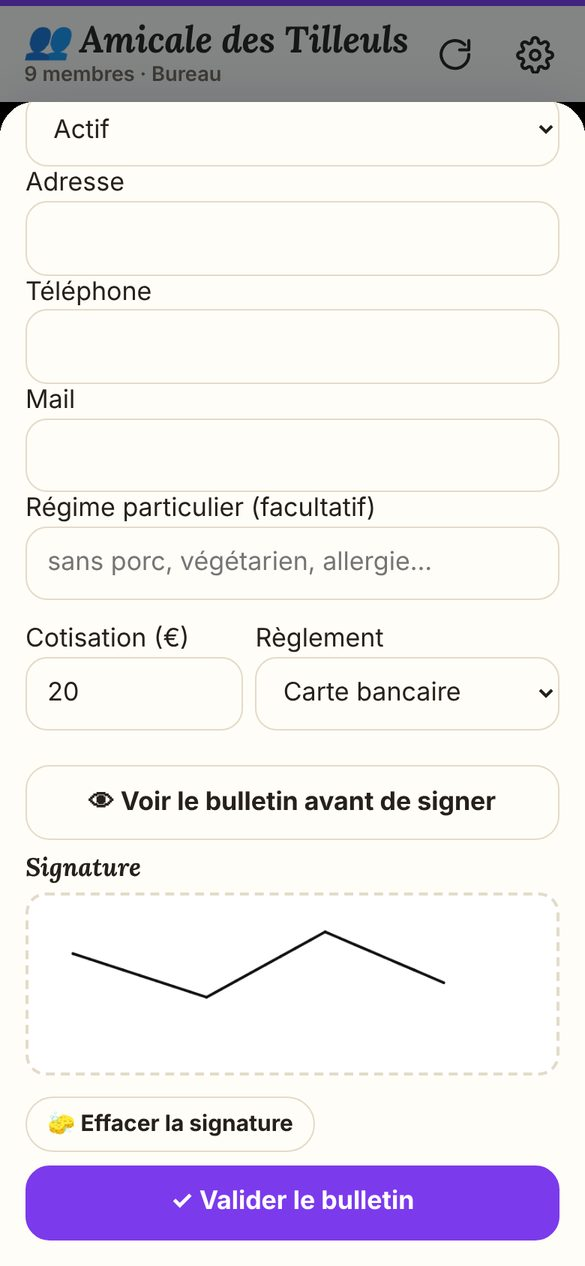
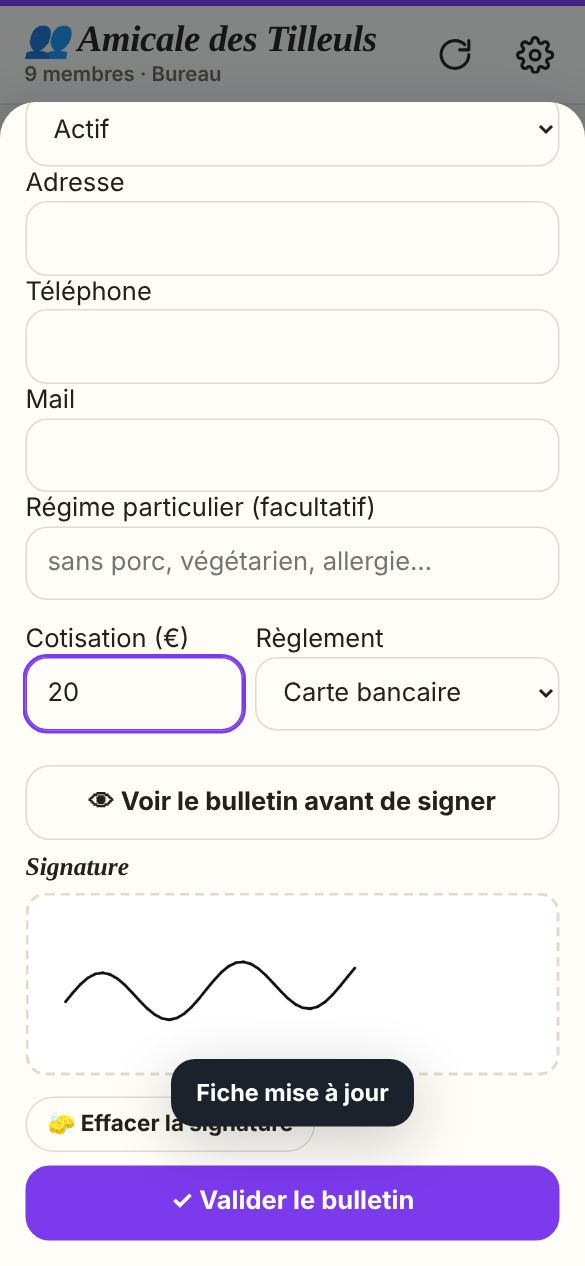
Visite guidée : images de la signature du bulletin mises à jour
Claude-Session: https://claude.ai/code/session_019mqjrjxHAMpMjD6Up7Rrk6

diff --git a/visite.html b/visite.html
@@ -100,8 +100,8 @@ body.land .card .lnk a{font-size:clamp(.95rem,2.3vh,1.5rem)}
 <div id="hint"><button class="ib" id="pv">‹ Retour</button><button class="ib nx" id="nx">Suivant ›</button></div>
 <div id="menu"><div class="box"><h3>Disposition</h3><div id="mm" style="display:flex;gap:.4rem"></div><h3 style="margin-top:.8rem">Aller à…</h3><div id="ml"></div><button id="mc" style="justify-content:center;background:#ede9fe">Fermer</button></div></div>
 <script>
-/* {"g01-inviter": {"bureau": [50.0, 55.1, 81.7, 6.0], "aide": [50.0, 62.1, 81.7, 6.0]}, "g02-code": {"code": [50.0, 34.8, 81.7, 8.2], "sms": [50.0, 56.6, 81.7, 6.0]}, "g03-accueil": {"join": [50.0, 62.8, 93.0, 6.0], "card": [50.0, 31.1, 93.0, 40.4]}, "g04-saisie-code": {"code": [50.0, 52.4, 81.7, 6.9], "ok": [50.0, 59.9, 81.7, 6.0]}, "g05-fiche": {"nom": [50.0, 41.3, 81.7, 5.8], "tel": [50.0, 50.6, 81.7, 5.8], "ok": [50.0, 76.2, 81.7, 6.0]}, "g06-membres": {"inv": [44.8, 36.3, 83.5, 4.0]}, "g07-ajout-amicaliste": {"nom": [50.0, 16.0, 81.7, 5.8], "grade": [50.0, 25.3, 81.7, 5.8], "regime": [50.0, 90.7, 81.7, 5.8]}, "g08-signature": {"prix": [22.9, 52.1, 37.1, 5.8], "pm": [69.7, 52.1, 52.0, 5.8], "sig": [50.0, 68.1, 91.3, 14.4], "ok": [50.0, 94.9, 91.3, 6.0]}, "g09-amicaliste-signe": {"fiche": [44.8, 72.1, 83.5, 10.3], "stats": [44.8, 24.9, 77.4, 23.1]}, "g10-archiver-bouton": {}, "g11-archiver": {"zip": [50.0, 57.4, 81.7, 6.0]}, "g12-liberer": {"lib": [50.0, 57.5, 81.7, 6.0]}, "g13-archive": {"fiche": [44.8, 72.1, 83.5, 10.3]}, "g14-taches": {"add": [44.8, 22.3, 83.5, 4.2], "t1": [44.8, 30.0, 83.5, 10.3], "done": [44.8, 88.1, 83.5, 12.8]}, "g15-courses": {"done": [44.8, 71.1, 83.5, 7.5], "plus": [80.5, 37.2, 7.4, 3.4]}, "g16-evenements": {"noel": [44.8, 30.2, 83.5, 7.5], "add": [44.8, 15.8, 83.5, 4.2]}, "g17-noel-preparation": {"infos": [44.8, 40.5, 77.4, 42.9], "fait": [44.8, 72.4, 83.5, 12.8]}, "g18-import-liste": {"coller": [50.0, 55.2, 81.7, 6.0], "fichier": [50.0, 62.2, 81.7, 6.0]}, "g19-noel-inscrits": {"stats": [44.8, 72.2, 83.5, 12.2], "regimes": [20.1, 80.5, 34.1, 1.9], "p1": [49.9, 94.6, 68.5, 8.8]}, "g20-noel-distribution": {"jj": [23.6, 39.6, 41.0, 10.3], "ty": [66.1, 39.6, 41.0, 10.3], "cadeau": [76.1, 50.6, 20.9, 10.3], "exp": [66.1, 59.4, 41.0, 6.1]}, "g21-ce-qu-on-distribue": {"repas": [50.0, 25.2, 81.7, 5.8], "autres": [50.0, 81.1, 81.7, 5.8]}, "g22-import-inscrits": {"noms": [50.0, 53.4, 81.7, 16.9]}, "g23-noel-programme": {"pg": [44.8, 68.6, 83.5, 4.8], "add": [44.8, 97.8, 83.5, 4.2]}, "g24-jour-j": {"stats": [33.7, 14.0, 10.3, 1.7], "p1": [22.8, 50.1, 32.9, 4.2], "onglets": [59.1, 25.1, 41.6, 3.8]}, "g25-affiche": {"aff": [50.0, 54.0, 98.0, 92.0], "style": [50.0, 55.4, 89.3, 2.7]}, "g26-agenda-noel": {"j19": [67.3, 58.4, 11.2, 9.3], "ev": [52.7, 88.9, 62.8, 2.6]}, "g27-note-bilan": {"titre": [44.8, 30.7, 72.6, 7.2], "dec": [44.8, 61.4, 72.6, 3.4]}, "g28-impression": {"af": [50.0, 42.8, 81.7, 6.0], "all": [50.0, 49.8, 81.7, 6.0], "pg": [50.0, 56.8, 81.7, 6.0], "ck": [50.0, 63.8, 81.7, 6.0]}, "a2-ajout": {"nom": [50.0, 39.0, 81.7, 5.8], "dossier": [50.0, 48.3, 81.7, 5.8], "ev": [50.0, 57.6, 81.7, 5.8]}, "a3-apercu": {"pv": [50.0, 42.7, 81.7, 53.2], "send": [50.0, 81.2, 81.7, 6.0]}, "a1-liste": {"add": [44.8, 44.2, 68.2, 4.0], "chips": [44.8, 60.7, 83.5, 22.0], "send": [76.5, 82.2, 11.8, 5.4]}, "a4-dossiers": {"perso": [21.9, 69.8, 37.6, 3.8]}, "a5-evenement-docs": {"docs": [44.8, 12.8, 83.5, 2.0], "join": [44.8, 59.5, 83.5, 4.0]}, "a6-reglage": {"reg": [44.8, 43.7, 68.2, 13.0], "new": [44.8, 57.8, 68.2, 15.3]}, "a7-reglement": {"ti": [50.0, 42.4, 91.3, 10.1], "tx": [50.0, 66.9, 91.3, 31.7]}, "a8-bureau": {"bu": [50.0, 16.9, 91.3, 36.1], "sig": [50.0, 26.4, 86.4, 14.9]}, "a9-bulletin": {"pn": [50.0, 37.6, 91.3, 5.8], "sv": [50.0, 63.3, 91.3, 5.8]}, "a9b-bulletin-signe": {"pv": [50.0, 63.4, 91.3, 6.0], "sig": [50.0, 77.7, 91.3, 14.4], "ok": [50.0, 95.0, 91.3, 6.0]}, "a10-menu": {"send": [50.0, 77.0, 81.7, 6.0], "print": [50.0, 84.0, 81.7, 6.0], "fin": [50.0, 98.0, 81.7, 6.0]}, "a11-papier": {"bp": [50.0, 50.0, 81.7, 5.8]}, "a12-saison": {"ok": [50.0, 67.5, 81.7, 6.0]}, "a13-ag": {"new": [44.8, 86.6, 68.2, 6.1], "item": [44.8, 77.5, 68.2, 10.3]}, "a14-ag-edit": {"fill": [50.0, 26.7, 91.3, 6.0], "ps": [50.0, 44.1, 91.3, 5.8]}, "a15-ag-parties": {"x": [50.0, 37.4, 86.4, 19.4], "up": [73.8, 54.0, 11.8, 5.4]}, "a16-ag-signer": {"sig": [27.5, 47.4, 41.4, 4.4], "add": [50.0, 76.0, 91.3, 6.0]}, "g29-repas": {"nb": [36.1, 21.9, 66.1, 7.5], "plat": [44.8, 47.0, 83.5, 14.6], "add": [23.6, 94.1, 41.0, 6.1]}, "g30-repas-envoi": {"ok": [50.0, 66.1, 81.7, 6.0], "liste": [50.0, 45.4, 81.7, 22.0]}, "g31-courses-noel": {"art": [44.8, 3.1, 83.5, 7.5]}, "g32-lier": {"lier": [44.8, 35.5, 68.2, 10.4]}, "g33-lier-code": {"dlg": [50.0, 50.0, 91.3, 46.2]}, "g35-choix": {"tot": [50.0, 21.1, 91.3, 8.1], "pp": [50.0, 33.6, 91.3, 14.6]}, "g34-compose": {"plat": [44.8, 57.8, 83.5, 20.2], "ch": [25.5, 64.1, 38.1, 6.1], "pr": [65.1, 64.1, 38.1, 6.1]}, "g36-regimes": {"rg": [44.8, 21.8, 83.5, 12.6], "fo": [38.1, 34.1, 63.2, 1.8], "send": [44.8, 96.1, 83.5, 4.0]}, "a17-am-outils": {"bg": [23.6, 59.3, 41.0, 6.1], "fill": [44.8, 66.2, 83.5, 6.1], "dbl": [66.1, 59.3, 41.0, 6.1], "imp": [23.6, 52.4, 41.0, 6.1]}, "a18-badges": {"tab": [50.0, 38.0, 81.7, 42.0], "copy": [50.0, 80.1, 81.7, 6.0], "xl": [50.0, 88.4, 81.7, 8.7]}, "a19-coffret": {"chip": [109.7, 52.0, 35.1, 3.8], "exp": [23.6, 57.8, 41.0, 6.1], "bg": [66.1, 57.8, 41.0, 6.1]}, "a22-fiche-badge": {"bg": [50.0, 50.0, 81.7, 5.8], "pd": [50.0, 12.6, 81.7, 6.0]}, "a20-ev-badges": {"bg": [23.6, 57.7, 41.0, 6.1], "fill": [66.1, 57.7, 41.0, 6.1]}, "a21-ev-liste": {"tab": [50.0, 38.0, 81.7, 42.0], "miss": [50.0, 73.8, 81.7, 4.6]}, "a23-cd-fiche": {"act": [50.0, 76.8, 81.7, 5.8]}, "a26-cd-membre": {"dlg": [50.0, 50.0, 91.3, 45.9]}, "a24-cd-new": {"tp": [50.0, 33.8, 81.7, 5.8], "x": [50.0, 71.3, 81.7, 5.8], "bd": [50.0, 62.0, 81.7, 5.8]}, "a25-cd-liste": {"card": [44.8, 61.9, 77.4, 97.1], "tog": [17.7, 50.9, 7.0, 3.2], "done": [44.8, 80.3, 68.2, 15.6]}, "a27-safe": {"card": [44.8, 42.2, 77.4, 67.9], "tr": [44.8, 34.4, 68.2, 10.3], "sn": [44.8, 44.7, 68.2, 10.4], "bk": [44.8, 55.4, 68.2, 10.9], "bkr": [44.8, 67.4, 68.2, 13.1]}, "a28-corbeille": {"row": [50.0, 30.8, 91.3, 13.9], "res": [77.2, 30.8, 31.1, 4.4]}, "a29-copies": {"row": [25.7, 30.5, 42.7, 8.5]}, "a30-copie-choix": {"b": [50.0, 50.2, 81.7, 8.7], "f": [50.0, 59.9, 81.7, 8.7]}, "a31-restaurer": {"c": [50.0, 59.4, 81.7, 5.8]}, "a32-fichier": {"p": [50.0, 53.2, 81.7, 5.8]}, "g37-paiement": {"bar": [44.8, 27.2, 83.5, 23.3], "no": [30.1, 20.7, 11.8, 2.4], "pay": [72.0, 60.8, 11.8, 5.4], "f": [22.6, 24.5, 33.3, 3.8]}, "g38-encaisser": {"m": [50.0, 39.3, 81.7, 5.8], "du": [50.0, 60.0, 81.7, 5.8]}, "g39-pas-paye": {"tab": [50.0, 39.9, 81.7, 20.9]}, "a34-fill-intro": {"dlg": [50.0, 50.0, 91.3, 53.9]}, "a33-fill-ok": {"dlg": [50.0, 50.0, 91.3, 30.8]}, "r1-croque": {"nb": [36.1, 21.9, 66.1, 7.5], "rg": [44.8, 32.5, 83.5, 12.6], "plat": [44.8, 47.0, 83.5, 14.6], "var": [44.8, 61.1, 83.5, 12.6], "send": [44.8, 87.5, 83.5, 4.0]}, "r2-croque-plat": {"ing": [50.0, 59.6, 81.7, 16.9], "pp": [50.0, 35.5, 81.7, 5.8], "fo": [50.0, 44.8, 81.7, 5.8]}, "r3-croque-envoi": {"liste": [50.0, 46.8, 81.7, 9.8], "ok": [50.0, 61.3, 81.7, 6.0]}, "r4-croque-courses": {"art": [44.8, 49.7, 83.5, 7.5]}, "l1-pour-les-nuls": {"tab": [94.9, 76.7, 10.2, 10.0], "intro": [44.8, 31.1, 77.4, 27.5]}, "l2-fiche-ag": {"fiche": [44.8, 52.5, 77.4, 7.0], "src": [52.5, 96.0, 70.0, 3.0]}, "l3-script": {"btn": [44.8, 81.3, 68.2, 6.1], "txt": [44.8, 81.3, 68.2, 6.1]}, "n1-deux-listes": {"chips": [44.8, 88.4, 83.5, 4.1]}, "n2-non-amicalistes": {"liste": [44.8, 61.6, 83.5, 4.1], "add": [44.8, 18.7, 83.5, 6.1], "sel": [70.0, 77.5, 33.0, 4.8]}, "n3-outils": {"saison": [23.6, 74.1, 41.0, 8.2], "annonce": [66.1, 74.1, 41.0, 8.2], "prix": [44.8, 82.1, 83.5, 6.1], "exp": [67.9, 52.4, 37.4, 6.1], "imp": [25.4, 52.4, 44.6, 6.1]}, "e3-jourj-encaisser": {"euro": [43.2, 67.5, 19.7, 4.2], "cpt": [74.0, 18.8, 36.0, 3.2]}, "e0-bouton-jourj": {"jj": [23.6, 57.8, 41.0, 10.3]}, "e2-selection": {"bar": [44.8, 34.5, 80.0, 6.5], "pres": [27.4, 45.1, 33.3, 6.0], "pay": [62.3, 45.1, 33.3, 6.0], "inv": [27.4, 52.0, 33.3, 6.0], "exp": [62.3, 52.0, 33.3, 6.0], "del": [44.8, 57.7, 68.0, 4.2], "tabs": [55.0, 65.2, 85.0, 4.8]}, "e6-taches-selection": {"bar": [44.8, 19.5, 80.0, 6.0], "don": [27.4, 30.0, 33.0, 6.2], "rap": [62.3, 30.0, 33.0, 6.2], "del": [44.8, 35.7, 68.0, 4.2]}, "e4-fiche-contact": {"tel": [50.0, 57.9, 81.7, 18.8]}, "e5-journal": {"clr": [44.8, 57.8, 68.2, 6.1]}} est remplacé par les positions mesurées lors des captures */
-const MK={"g01-inviter": {"bureau": [50.0, 55.1, 81.7, 6.0], "aide": [50.0, 62.1, 81.7, 6.0]}, "g02-code": {"code": [50.0, 34.8, 81.7, 8.2], "sms": [50.0, 56.6, 81.7, 6.0]}, "g03-accueil": {"join": [50.0, 62.8, 93.0, 6.0], "card": [50.0, 31.1, 93.0, 40.4]}, "g04-saisie-code": {"code": [50.0, 52.4, 81.7, 6.9], "ok": [50.0, 59.9, 81.7, 6.0]}, "g05-fiche": {"nom": [50.0, 41.3, 81.7, 5.8], "tel": [50.0, 50.6, 81.7, 5.8], "ok": [50.0, 76.2, 81.7, 6.0]}, "g06-membres": {"inv": [44.8, 36.3, 83.5, 4.0]}, "g07-ajout-amicaliste": {"nom": [50.0, 16.0, 81.7, 5.8], "grade": [50.0, 25.3, 81.7, 5.8], "regime": [50.0, 90.7, 81.7, 5.8]}, "g08-signature": {"prix": [22.9, 52.1, 37.1, 5.8], "pm": [69.7, 52.1, 52.0, 5.8], "sig": [50.0, 68.1, 91.3, 14.4], "ok": [50.0, 94.9, 91.3, 6.0]}, "g09-amicaliste-signe": {"fiche": [44.8, 72.1, 83.5, 10.3], "stats": [44.8, 24.9, 77.4, 23.1]}, "g10-archiver-bouton": {}, "g11-archiver": {"zip": [50.0, 57.4, 81.7, 6.0]}, "g12-liberer": {"lib": [50.0, 57.5, 81.7, 6.0]}, "g13-archive": {"fiche": [44.8, 72.1, 83.5, 10.3]}, "g14-taches": {"add": [44.8, 22.3, 83.5, 4.2], "t1": [44.8, 30.0, 83.5, 10.3], "done": [44.8, 88.1, 83.5, 12.8]}, "g15-courses": {"done": [44.8, 71.1, 83.5, 7.5], "plus": [80.5, 37.2, 7.4, 3.4]}, "g16-evenements": {"noel": [44.8, 30.2, 83.5, 7.5], "add": [44.8, 15.8, 83.5, 4.2]}, "g17-noel-preparation": {"infos": [44.8, 40.5, 77.4, 42.9], "fait": [44.8, 72.4, 83.5, 12.8]}, "g18-import-liste": {"coller": [50.0, 55.2, 81.7, 6.0], "fichier": [50.0, 62.2, 81.7, 6.0]}, "g19-noel-inscrits": {"stats": [44.8, 72.2, 83.5, 12.2], "regimes": [20.1, 80.5, 34.1, 1.9], "p1": [49.9, 94.6, 68.5, 8.8]}, "g20-noel-distribution": {"jj": [23.6, 39.6, 41.0, 10.3], "ty": [66.1, 39.6, 41.0, 10.3], "cadeau": [76.1, 50.6, 20.9, 10.3], "exp": [66.1, 59.4, 41.0, 6.1]}, "g21-ce-qu-on-distribue": {"repas": [50.0, 25.2, 81.7, 5.8], "autres": [50.0, 81.1, 81.7, 5.8]}, "g22-import-inscrits": {"noms": [50.0, 53.4, 81.7, 16.9]}, "g23-noel-programme": {"pg": [44.8, 68.6, 83.5, 4.8], "add": [44.8, 97.8, 83.5, 4.2]}, "g24-jour-j": {"stats": [33.7, 14.0, 10.3, 1.7], "p1": [22.8, 50.1, 32.9, 4.2], "onglets": [59.1, 25.1, 41.6, 3.8]}, "g25-affiche": {"aff": [50.0, 54.0, 98.0, 92.0], "style": [50.0, 55.4, 89.3, 2.7]}, "g26-agenda-noel": {"j19": [67.3, 58.4, 11.2, 9.3], "ev": [52.7, 88.9, 62.8, 2.6]}, "g27-note-bilan": {"titre": [44.8, 30.7, 72.6, 7.2], "dec": [44.8, 61.4, 72.6, 3.4]}, "g28-impression": {"af": [50.0, 42.8, 81.7, 6.0], "all": [50.0, 49.8, 81.7, 6.0], "pg": [50.0, 56.8, 81.7, 6.0], "ck": [50.0, 63.8, 81.7, 6.0]}, "a2-ajout": {"nom": [50.0, 39.0, 81.7, 5.8], "dossier": [50.0, 48.3, 81.7, 5.8], "ev": [50.0, 57.6, 81.7, 5.8]}, "a3-apercu": {"pv": [50.0, 42.7, 81.7, 53.2], "send": [50.0, 81.2, 81.7, 6.0]}, "a1-liste": {"add": [44.8, 44.2, 68.2, 4.0], "chips": [44.8, 60.7, 83.5, 22.0], "send": [76.5, 82.2, 11.8, 5.4]}, "a4-dossiers": {"perso": [21.9, 69.8, 37.6, 3.8]}, "a5-evenement-docs": {"docs": [44.8, 12.8, 83.5, 2.0], "join": [44.8, 59.5, 83.5, 4.0]}, "a6-reglage": {"reg": [44.8, 43.7, 68.2, 13.0], "new": [44.8, 57.8, 68.2, 15.3]}, "a7-reglement": {"ti": [50.0, 42.4, 91.3, 10.1], "tx": [50.0, 66.9, 91.3, 31.7]}, "a8-bureau": {"bu": [50.0, 16.9, 91.3, 36.1], "sig": [50.0, 26.4, 86.4, 14.9]}, "a9-bulletin": {"pn": [50.0, 37.6, 91.3, 5.8], "sv": [50.0, 63.3, 91.3, 5.8]}, "a9b-bulletin-signe": {"pv": [50.0, 63.4, 91.3, 6.0], "sig": [50.0, 77.7, 91.3, 14.4], "ok": [50.0, 95.0, 91.3, 6.0]}, "a10-menu": {"send": [50.0, 77.0, 81.7, 6.0], "print": [50.0, 84.0, 81.7, 6.0], "fin": [50.0, 98.0, 81.7, 6.0]}, "a11-papier": {"bp": [50.0, 50.0, 81.7, 5.8]}, "a12-saison": {"ok": [50.0, 67.5, 81.7, 6.0]}, "a13-ag": {"new": [44.8, 86.6, 68.2, 6.1], "item": [44.8, 77.5, 68.2, 10.3]}, "a14-ag-edit": {"fill": [50.0, 26.7, 91.3, 6.0], "ps": [50.0, 44.1, 91.3, 5.8]}, "a15-ag-parties": {"x": [50.0, 37.4, 86.4, 19.4], "up": [73.8, 54.0, 11.8, 5.4]}, "a16-ag-signer": {"sig": [27.5, 47.4, 41.4, 4.4], "add": [50.0, 76.0, 91.3, 6.0]}, "g29-repas": {"nb": [36.1, 21.9, 66.1, 7.5], "plat": [44.8, 47.0, 83.5, 14.6], "add": [23.6, 94.1, 41.0, 6.1]}, "g30-repas-envoi": {"ok": [50.0, 66.1, 81.7, 6.0], "liste": [50.0, 45.4, 81.7, 22.0]}, "g31-courses-noel": {"art": [44.8, 3.1, 83.5, 7.5]}, "g32-lier": {"lier": [44.8, 35.5, 68.2, 10.4]}, "g33-lier-code": {"dlg": [50.0, 50.0, 91.3, 46.2]}, "g35-choix": {"tot": [50.0, 21.1, 91.3, 8.1], "pp": [50.0, 33.6, 91.3, 14.6]}, "g34-compose": {"plat": [44.8, 57.8, 83.5, 20.2], "ch": [25.5, 64.1, 38.1, 6.1], "pr": [65.1, 64.1, 38.1, 6.1]}, "g36-regimes": {"rg": [44.8, 21.8, 83.5, 12.6], "fo": [38.1, 34.1, 63.2, 1.8], "send": [44.8, 96.1, 83.5, 4.0]}, "a17-am-outils": {"bg": [23.6, 59.3, 41.0, 6.1], "fill": [44.8, 66.2, 83.5, 6.1], "dbl": [66.1, 59.3, 41.0, 6.1], "imp": [23.6, 52.4, 41.0, 6.1]}, "a18-badges": {"tab": [50.0, 38.0, 81.7, 42.0], "copy": [50.0, 80.1, 81.7, 6.0], "xl": [50.0, 88.4, 81.7, 8.7]}, "a19-coffret": {"chip": [109.7, 52.0, 35.1, 3.8], "exp": [23.6, 57.8, 41.0, 6.1], "bg": [66.1, 57.8, 41.0, 6.1]}, "a22-fiche-badge": {"bg": [50.0, 50.0, 81.7, 5.8], "pd": [50.0, 12.6, 81.7, 6.0]}, "a20-ev-badges": {"bg": [23.6, 57.7, 41.0, 6.1], "fill": [66.1, 57.7, 41.0, 6.1]}, "a21-ev-liste": {"tab": [50.0, 38.0, 81.7, 42.0], "miss": [50.0, 73.8, 81.7, 4.6]}, "a23-cd-fiche": {"act": [50.0, 76.8, 81.7, 5.8]}, "a26-cd-membre": {"dlg": [50.0, 50.0, 91.3, 45.9]}, "a24-cd-new": {"tp": [50.0, 33.8, 81.7, 5.8], "x": [50.0, 71.3, 81.7, 5.8], "bd": [50.0, 62.0, 81.7, 5.8]}, "a25-cd-liste": {"card": [44.8, 61.9, 77.4, 97.1], "tog": [17.7, 50.9, 7.0, 3.2], "done": [44.8, 80.3, 68.2, 15.6]}, "a27-safe": {"card": [44.8, 42.2, 77.4, 67.9], "tr": [44.8, 34.4, 68.2, 10.3], "sn": [44.8, 44.7, 68.2, 10.4], "bk": [44.8, 55.4, 68.2, 10.9], "bkr": [44.8, 67.4, 68.2, 13.1]}, "a28-corbeille": {"row": [50.0, 30.8, 91.3, 13.9], "res": [77.2, 30.8, 31.1, 4.4]}, "a29-copies": {"row": [25.7, 30.5, 42.7, 8.5]}, "a30-copie-choix": {"b": [50.0, 50.2, 81.7, 8.7], "f": [50.0, 59.9, 81.7, 8.7]}, "a31-restaurer": {"c": [50.0, 59.4, 81.7, 5.8]}, "a32-fichier": {"p": [50.0, 53.2, 81.7, 5.8]}, "g37-paiement": {"bar": [44.8, 27.2, 83.5, 23.3], "no": [30.1, 20.7, 11.8, 2.4], "pay": [72.0, 60.8, 11.8, 5.4], "f": [22.6, 24.5, 33.3, 3.8]}, "g38-encaisser": {"m": [50.0, 39.3, 81.7, 5.8], "du": [50.0, 60.0, 81.7, 5.8]}, "g39-pas-paye": {"tab": [50.0, 39.9, 81.7, 20.9]}, "a34-fill-intro": {"dlg": [50.0, 50.0, 91.3, 53.9]}, "a33-fill-ok": {"dlg": [50.0, 50.0, 91.3, 30.8]}, "r1-croque": {"nb": [36.1, 21.9, 66.1, 7.5], "rg": [44.8, 32.5, 83.5, 12.6], "plat": [44.8, 47.0, 83.5, 14.6], "var": [44.8, 61.1, 83.5, 12.6], "send": [44.8, 87.5, 83.5, 4.0]}, "r2-croque-plat": {"ing": [50.0, 59.6, 81.7, 16.9], "pp": [50.0, 35.5, 81.7, 5.8], "fo": [50.0, 44.8, 81.7, 5.8]}, "r3-croque-envoi": {"liste": [50.0, 46.8, 81.7, 9.8], "ok": [50.0, 61.3, 81.7, 6.0]}, "r4-croque-courses": {"art": [44.8, 49.7, 83.5, 7.5]}, "l1-pour-les-nuls": {"tab": [94.9, 76.7, 10.2, 10.0], "intro": [44.8, 31.1, 77.4, 27.5]}, "l2-fiche-ag": {"fiche": [44.8, 52.5, 77.4, 7.0], "src": [52.5, 96.0, 70.0, 3.0]}, "l3-script": {"btn": [44.8, 81.3, 68.2, 6.1], "txt": [44.8, 81.3, 68.2, 6.1]}, "n1-deux-listes": {"chips": [44.8, 88.4, 83.5, 4.1]}, "n2-non-amicalistes": {"liste": [44.8, 61.6, 83.5, 4.1], "add": [44.8, 18.7, 83.5, 6.1], "sel": [70.0, 77.5, 33.0, 4.8]}, "n3-outils": {"saison": [23.6, 74.1, 41.0, 8.2], "annonce": [66.1, 74.1, 41.0, 8.2], "prix": [44.8, 82.1, 83.5, 6.1], "exp": [67.9, 52.4, 37.4, 6.1], "imp": [25.4, 52.4, 44.6, 6.1]}, "e3-jourj-encaisser": {"euro": [43.2, 67.5, 19.7, 4.2], "cpt": [74.0, 18.8, 36.0, 3.2]}, "e0-bouton-jourj": {"jj": [23.6, 57.8, 41.0, 10.3]}, "e2-selection": {"bar": [44.8, 34.5, 80.0, 6.5], "pres": [27.4, 45.1, 33.3, 6.0], "pay": [62.3, 45.1, 33.3, 6.0], "inv": [27.4, 52.0, 33.3, 6.0], "exp": [62.3, 52.0, 33.3, 6.0], "del": [44.8, 57.7, 68.0, 4.2], "tabs": [55.0, 65.2, 85.0, 4.8]}, "e6-taches-selection": {"bar": [44.8, 19.5, 80.0, 6.0], "don": [27.4, 30.0, 33.0, 6.2], "rap": [62.3, 30.0, 33.0, 6.2], "del": [44.8, 35.7, 68.0, 4.2]}, "e4-fiche-contact": {"tel": [50.0, 57.9, 81.7, 18.8]}, "e5-journal": {"clr": [44.8, 57.8, 68.2, 6.1]}};
+/* {"g01-inviter": {"bureau": [50.0, 55.1, 81.7, 6.0], "aide": [50.0, 62.1, 81.7, 6.0]}, "g02-code": {"code": [50.0, 34.8, 81.7, 8.2], "sms": [50.0, 56.6, 81.7, 6.0]}, "g03-accueil": {"join": [50.0, 62.8, 93.0, 6.0], "card": [50.0, 31.1, 93.0, 40.4]}, "g04-saisie-code": {"code": [50.0, 52.4, 81.7, 6.9], "ok": [50.0, 59.9, 81.7, 6.0]}, "g05-fiche": {"nom": [50.0, 41.3, 81.7, 5.8], "tel": [50.0, 50.6, 81.7, 5.8], "ok": [50.0, 76.2, 81.7, 6.0]}, "g06-membres": {"inv": [44.8, 36.3, 83.5, 4.0]}, "g07-ajout-amicaliste": {"nom": [50.0, 16.0, 81.7, 5.8], "grade": [50.0, 25.3, 81.7, 5.8], "regime": [50.0, 90.7, 81.7, 5.8]}, "g08-signature": {"prix": [23.1, 54.7, 37.6, 6.0], "pm": [69.6, 54.7, 51.0, 6.0], "sig": [50.0, 78.0, 91.3, 14.4], "ok": [50.0, 94.8, 91.3, 6.0]}, "g09-amicaliste-signe": {"fiche": [44.8, 72.1, 83.5, 10.3], "stats": [44.8, 24.9, 77.4, 23.1]}, "g10-archiver-bouton": {}, "g11-archiver": {"zip": [50.0, 57.4, 81.7, 6.0]}, "g12-liberer": {"lib": [50.0, 57.5, 81.7, 6.0]}, "g13-archive": {"fiche": [44.8, 72.1, 83.5, 10.3]}, "g14-taches": {"add": [44.8, 22.3, 83.5, 4.2], "t1": [44.8, 30.0, 83.5, 10.3], "done": [44.8, 88.1, 83.5, 12.8]}, "g15-courses": {"done": [44.8, 71.1, 83.5, 7.5], "plus": [80.5, 37.2, 7.4, 3.4]}, "g16-evenements": {"noel": [44.8, 30.2, 83.5, 7.5], "add": [44.8, 15.8, 83.5, 4.2]}, "g17-noel-preparation": {"infos": [44.8, 40.5, 77.4, 42.9], "fait": [44.8, 72.4, 83.5, 12.8]}, "g18-import-liste": {"coller": [50.0, 55.2, 81.7, 6.0], "fichier": [50.0, 62.2, 81.7, 6.0]}, "g19-noel-inscrits": {"stats": [44.8, 72.2, 83.5, 12.2], "regimes": [20.1, 80.5, 34.1, 1.9], "p1": [49.9, 94.6, 68.5, 8.8]}, "g20-noel-distribution": {"jj": [23.6, 39.6, 41.0, 10.3], "ty": [66.1, 39.6, 41.0, 10.3], "cadeau": [76.1, 50.6, 20.9, 10.3], "exp": [66.1, 59.4, 41.0, 6.1]}, "g21-ce-qu-on-distribue": {"repas": [50.0, 25.2, 81.7, 5.8], "autres": [50.0, 81.1, 81.7, 5.8]}, "g22-import-inscrits": {"noms": [50.0, 53.4, 81.7, 16.9]}, "g23-noel-programme": {"pg": [44.8, 68.6, 83.5, 4.8], "add": [44.8, 97.8, 83.5, 4.2]}, "g24-jour-j": {"stats": [33.7, 14.0, 10.3, 1.7], "p1": [22.8, 50.1, 32.9, 4.2], "onglets": [59.1, 25.1, 41.6, 3.8]}, "g25-affiche": {"aff": [50.0, 54.0, 98.0, 92.0], "style": [50.0, 55.4, 89.3, 2.7]}, "g26-agenda-noel": {"j19": [67.3, 58.4, 11.2, 9.3], "ev": [52.7, 88.9, 62.8, 2.6]}, "g27-note-bilan": {"titre": [44.8, 30.7, 72.6, 7.2], "dec": [44.8, 61.4, 72.6, 3.4]}, "g28-impression": {"af": [50.0, 42.8, 81.7, 6.0], "all": [50.0, 49.8, 81.7, 6.0], "pg": [50.0, 56.8, 81.7, 6.0], "ck": [50.0, 63.8, 81.7, 6.0]}, "a2-ajout": {"nom": [50.0, 39.0, 81.7, 5.8], "dossier": [50.0, 48.3, 81.7, 5.8], "ev": [50.0, 57.6, 81.7, 5.8]}, "a3-apercu": {"pv": [50.0, 42.7, 81.7, 53.2], "send": [50.0, 81.2, 81.7, 6.0]}, "a1-liste": {"add": [44.8, 44.2, 68.2, 4.0], "chips": [44.8, 60.7, 83.5, 22.0], "send": [76.5, 82.2, 11.8, 5.4]}, "a4-dossiers": {"perso": [21.9, 69.8, 37.6, 3.8]}, "a5-evenement-docs": {"docs": [44.8, 12.8, 83.5, 2.0], "join": [44.8, 59.5, 83.5, 4.0]}, "a6-reglage": {"reg": [44.8, 43.7, 68.2, 13.0], "new": [44.8, 57.8, 68.2, 15.3]}, "a7-reglement": {"ti": [50.0, 42.4, 91.3, 10.1], "tx": [50.0, 66.9, 91.3, 31.7]}, "a8-bureau": {"bu": [50.0, 16.9, 91.3, 36.1], "sig": [50.0, 26.4, 86.4, 14.9]}, "a9-bulletin": {"pn": [50.0, 37.6, 91.3, 5.8], "sv": [50.0, 63.3, 91.3, 5.8]}, "a9b-bulletin-signe": {"pv": [50.0, 63.4, 91.3, 6.0], "sig": [50.0, 78.0, 91.3, 14.4], "ok": [50.0, 94.8, 91.3, 6.0]}, "a10-menu": {"send": [50.0, 77.0, 81.7, 6.0], "print": [50.0, 84.0, 81.7, 6.0], "fin": [50.0, 98.0, 81.7, 6.0]}, "a11-papier": {"bp": [50.0, 50.0, 81.7, 5.8]}, "a12-saison": {"ok": [50.0, 67.5, 81.7, 6.0]}, "a13-ag": {"new": [44.8, 86.6, 68.2, 6.1], "item": [44.8, 77.5, 68.2, 10.3]}, "a14-ag-edit": {"fill": [50.0, 26.7, 91.3, 6.0], "ps": [50.0, 44.1, 91.3, 5.8]}, "a15-ag-parties": {"x": [50.0, 37.4, 86.4, 19.4], "up": [73.8, 54.0, 11.8, 5.4]}, "a16-ag-signer": {"sig": [27.5, 47.4, 41.4, 4.4], "add": [50.0, 76.0, 91.3, 6.0]}, "g29-repas": {"nb": [36.1, 21.9, 66.1, 7.5], "plat": [44.8, 47.0, 83.5, 14.6], "add": [23.6, 94.1, 41.0, 6.1]}, "g30-repas-envoi": {"ok": [50.0, 66.1, 81.7, 6.0], "liste": [50.0, 45.4, 81.7, 22.0]}, "g31-courses-noel": {"art": [44.8, 3.1, 83.5, 7.5]}, "g32-lier": {"lier": [44.8, 35.5, 68.2, 10.4]}, "g33-lier-code": {"dlg": [50.0, 50.0, 91.3, 46.2]}, "g35-choix": {"tot": [50.0, 21.1, 91.3, 8.1], "pp": [50.0, 33.6, 91.3, 14.6]}, "g34-compose": {"plat": [44.8, 57.8, 83.5, 20.2], "ch": [25.5, 64.1, 38.1, 6.1], "pr": [65.1, 64.1, 38.1, 6.1]}, "g36-regimes": {"rg": [44.8, 21.8, 83.5, 12.6], "fo": [38.1, 34.1, 63.2, 1.8], "send": [44.8, 96.1, 83.5, 4.0]}, "a17-am-outils": {"bg": [23.6, 59.3, 41.0, 6.1], "fill": [44.8, 66.2, 83.5, 6.1], "dbl": [66.1, 59.3, 41.0, 6.1], "imp": [23.6, 52.4, 41.0, 6.1]}, "a18-badges": {"tab": [50.0, 38.0, 81.7, 42.0], "copy": [50.0, 80.1, 81.7, 6.0], "xl": [50.0, 88.4, 81.7, 8.7]}, "a19-coffret": {"chip": [109.7, 52.0, 35.1, 3.8], "exp": [23.6, 57.8, 41.0, 6.1], "bg": [66.1, 57.8, 41.0, 6.1]}, "a22-fiche-badge": {"bg": [50.0, 50.0, 81.7, 5.8], "pd": [50.0, 12.6, 81.7, 6.0]}, "a20-ev-badges": {"bg": [23.6, 57.7, 41.0, 6.1], "fill": [66.1, 57.7, 41.0, 6.1]}, "a21-ev-liste": {"tab": [50.0, 38.0, 81.7, 42.0], "miss": [50.0, 73.8, 81.7, 4.6]}, "a23-cd-fiche": {"act": [50.0, 76.8, 81.7, 5.8]}, "a26-cd-membre": {"dlg": [50.0, 50.0, 91.3, 45.9]}, "a24-cd-new": {"tp": [50.0, 33.8, 81.7, 5.8], "x": [50.0, 71.3, 81.7, 5.8], "bd": [50.0, 62.0, 81.7, 5.8]}, "a25-cd-liste": {"card": [44.8, 61.9, 77.4, 97.1], "tog": [17.7, 50.9, 7.0, 3.2], "done": [44.8, 80.3, 68.2, 15.6]}, "a27-safe": {"card": [44.8, 42.2, 77.4, 67.9], "tr": [44.8, 34.4, 68.2, 10.3], "sn": [44.8, 44.7, 68.2, 10.4], "bk": [44.8, 55.4, 68.2, 10.9], "bkr": [44.8, 67.4, 68.2, 13.1]}, "a28-corbeille": {"row": [50.0, 30.8, 91.3, 13.9], "res": [77.2, 30.8, 31.1, 4.4]}, "a29-copies": {"row": [25.7, 30.5, 42.7, 8.5]}, "a30-copie-choix": {"b": [50.0, 50.2, 81.7, 8.7], "f": [50.0, 59.9, 81.7, 8.7]}, "a31-restaurer": {"c": [50.0, 59.4, 81.7, 5.8]}, "a32-fichier": {"p": [50.0, 53.2, 81.7, 5.8]}, "g37-paiement": {"bar": [44.8, 27.2, 83.5, 23.3], "no": [30.1, 20.7, 11.8, 2.4], "pay": [72.0, 60.8, 11.8, 5.4], "f": [22.6, 24.5, 33.3, 3.8]}, "g38-encaisser": {"m": [50.0, 39.3, 81.7, 5.8], "du": [50.0, 60.0, 81.7, 5.8]}, "g39-pas-paye": {"tab": [50.0, 39.9, 81.7, 20.9]}, "a34-fill-intro": {"dlg": [50.0, 50.0, 91.3, 53.9]}, "a33-fill-ok": {"dlg": [50.0, 50.0, 91.3, 30.8]}, "r1-croque": {"nb": [36.1, 21.9, 66.1, 7.5], "rg": [44.8, 32.5, 83.5, 12.6], "plat": [44.8, 47.0, 83.5, 14.6], "var": [44.8, 61.1, 83.5, 12.6], "send": [44.8, 87.5, 83.5, 4.0]}, "r2-croque-plat": {"ing": [50.0, 59.6, 81.7, 16.9], "pp": [50.0, 35.5, 81.7, 5.8], "fo": [50.0, 44.8, 81.7, 5.8]}, "r3-croque-envoi": {"liste": [50.0, 46.8, 81.7, 9.8], "ok": [50.0, 61.3, 81.7, 6.0]}, "r4-croque-courses": {"art": [44.8, 49.7, 83.5, 7.5]}, "l1-pour-les-nuls": {"tab": [94.9, 76.7, 10.2, 10.0], "intro": [44.8, 31.1, 77.4, 27.5]}, "l2-fiche-ag": {"fiche": [44.8, 52.5, 77.4, 7.0], "src": [52.5, 96.0, 70.0, 3.0]}, "l3-script": {"btn": [44.8, 81.3, 68.2, 6.1], "txt": [44.8, 81.3, 68.2, 6.1]}, "n1-deux-listes": {"chips": [44.8, 88.4, 83.5, 4.1]}, "n2-non-amicalistes": {"liste": [44.8, 61.6, 83.5, 4.1], "add": [44.8, 18.7, 83.5, 6.1], "sel": [70.0, 77.5, 33.0, 4.8]}, "n3-outils": {"saison": [23.6, 74.1, 41.0, 8.2], "annonce": [66.1, 74.1, 41.0, 8.2], "prix": [44.8, 82.1, 83.5, 6.1], "exp": [67.9, 52.4, 37.4, 6.1], "imp": [25.4, 52.4, 44.6, 6.1]}, "e3-jourj-encaisser": {"euro": [43.2, 67.5, 19.7, 4.2], "cpt": [74.0, 18.8, 36.0, 3.2]}, "e0-bouton-jourj": {"jj": [23.6, 57.8, 41.0, 10.3]}, "e2-selection": {"bar": [44.8, 34.5, 80.0, 6.5], "pres": [27.4, 45.1, 33.3, 6.0], "pay": [62.3, 45.1, 33.3, 6.0], "inv": [27.4, 52.0, 33.3, 6.0], "exp": [62.3, 52.0, 33.3, 6.0], "del": [44.8, 57.7, 68.0, 4.2], "tabs": [55.0, 65.2, 85.0, 4.8]}, "e6-taches-selection": {"bar": [44.8, 19.5, 80.0, 6.0], "don": [27.4, 30.0, 33.0, 6.2], "rap": [62.3, 30.0, 33.0, 6.2], "del": [44.8, 35.7, 68.0, 4.2]}, "e4-fiche-contact": {"tel": [50.0, 57.9, 81.7, 18.8]}, "e5-journal": {"clr": [44.8, 57.8, 68.2, 6.1]}} est remplacé par les positions mesurées lors des captures */
+const MK={"g01-inviter": {"bureau": [50.0, 55.1, 81.7, 6.0], "aide": [50.0, 62.1, 81.7, 6.0]}, "g02-code": {"code": [50.0, 34.8, 81.7, 8.2], "sms": [50.0, 56.6, 81.7, 6.0]}, "g03-accueil": {"join": [50.0, 62.8, 93.0, 6.0], "card": [50.0, 31.1, 93.0, 40.4]}, "g04-saisie-code": {"code": [50.0, 52.4, 81.7, 6.9], "ok": [50.0, 59.9, 81.7, 6.0]}, "g05-fiche": {"nom": [50.0, 41.3, 81.7, 5.8], "tel": [50.0, 50.6, 81.7, 5.8], "ok": [50.0, 76.2, 81.7, 6.0]}, "g06-membres": {"inv": [44.8, 36.3, 83.5, 4.0]}, "g07-ajout-amicaliste": {"nom": [50.0, 16.0, 81.7, 5.8], "grade": [50.0, 25.3, 81.7, 5.8], "regime": [50.0, 90.7, 81.7, 5.8]}, "g08-signature": {"prix": [23.1, 54.7, 37.6, 6.0], "pm": [69.6, 54.7, 51.0, 6.0], "sig": [50.0, 78.0, 91.3, 14.4], "ok": [50.0, 94.8, 91.3, 6.0]}, "g09-amicaliste-signe": {"fiche": [44.8, 72.1, 83.5, 10.3], "stats": [44.8, 24.9, 77.4, 23.1]}, "g10-archiver-bouton": {}, "g11-archiver": {"zip": [50.0, 57.4, 81.7, 6.0]}, "g12-liberer": {"lib": [50.0, 57.5, 81.7, 6.0]}, "g13-archive": {"fiche": [44.8, 72.1, 83.5, 10.3]}, "g14-taches": {"add": [44.8, 22.3, 83.5, 4.2], "t1": [44.8, 30.0, 83.5, 10.3], "done": [44.8, 88.1, 83.5, 12.8]}, "g15-courses": {"done": [44.8, 71.1, 83.5, 7.5], "plus": [80.5, 37.2, 7.4, 3.4]}, "g16-evenements": {"noel": [44.8, 30.2, 83.5, 7.5], "add": [44.8, 15.8, 83.5, 4.2]}, "g17-noel-preparation": {"infos": [44.8, 40.5, 77.4, 42.9], "fait": [44.8, 72.4, 83.5, 12.8]}, "g18-import-liste": {"coller": [50.0, 55.2, 81.7, 6.0], "fichier": [50.0, 62.2, 81.7, 6.0]}, "g19-noel-inscrits": {"stats": [44.8, 72.2, 83.5, 12.2], "regimes": [20.1, 80.5, 34.1, 1.9], "p1": [49.9, 94.6, 68.5, 8.8]}, "g20-noel-distribution": {"jj": [23.6, 39.6, 41.0, 10.3], "ty": [66.1, 39.6, 41.0, 10.3], "cadeau": [76.1, 50.6, 20.9, 10.3], "exp": [66.1, 59.4, 41.0, 6.1]}, "g21-ce-qu-on-distribue": {"repas": [50.0, 25.2, 81.7, 5.8], "autres": [50.0, 81.1, 81.7, 5.8]}, "g22-import-inscrits": {"noms": [50.0, 53.4, 81.7, 16.9]}, "g23-noel-programme": {"pg": [44.8, 68.6, 83.5, 4.8], "add": [44.8, 97.8, 83.5, 4.2]}, "g24-jour-j": {"stats": [33.7, 14.0, 10.3, 1.7], "p1": [22.8, 50.1, 32.9, 4.2], "onglets": [59.1, 25.1, 41.6, 3.8]}, "g25-affiche": {"aff": [50.0, 54.0, 98.0, 92.0], "style": [50.0, 55.4, 89.3, 2.7]}, "g26-agenda-noel": {"j19": [67.3, 58.4, 11.2, 9.3], "ev": [52.7, 88.9, 62.8, 2.6]}, "g27-note-bilan": {"titre": [44.8, 30.7, 72.6, 7.2], "dec": [44.8, 61.4, 72.6, 3.4]}, "g28-impression": {"af": [50.0, 42.8, 81.7, 6.0], "all": [50.0, 49.8, 81.7, 6.0], "pg": [50.0, 56.8, 81.7, 6.0], "ck": [50.0, 63.8, 81.7, 6.0]}, "a2-ajout": {"nom": [50.0, 39.0, 81.7, 5.8], "dossier": [50.0, 48.3, 81.7, 5.8], "ev": [50.0, 57.6, 81.7, 5.8]}, "a3-apercu": {"pv": [50.0, 42.7, 81.7, 53.2], "send": [50.0, 81.2, 81.7, 6.0]}, "a1-liste": {"add": [44.8, 44.2, 68.2, 4.0], "chips": [44.8, 60.7, 83.5, 22.0], "send": [76.5, 82.2, 11.8, 5.4]}, "a4-dossiers": {"perso": [21.9, 69.8, 37.6, 3.8]}, "a5-evenement-docs": {"docs": [44.8, 12.8, 83.5, 2.0], "join": [44.8, 59.5, 83.5, 4.0]}, "a6-reglage": {"reg": [44.8, 43.7, 68.2, 13.0], "new": [44.8, 57.8, 68.2, 15.3]}, "a7-reglement": {"ti": [50.0, 42.4, 91.3, 10.1], "tx": [50.0, 66.9, 91.3, 31.7]}, "a8-bureau": {"bu": [50.0, 16.9, 91.3, 36.1], "sig": [50.0, 26.4, 86.4, 14.9]}, "a9-bulletin": {"pn": [50.0, 37.6, 91.3, 5.8], "sv": [50.0, 63.3, 91.3, 5.8]}, "a9b-bulletin-signe": {"pv": [50.0, 63.4, 91.3, 6.0], "sig": [50.0, 78.0, 91.3, 14.4], "ok": [50.0, 94.8, 91.3, 6.0]}, "a10-menu": {"send": [50.0, 77.0, 81.7, 6.0], "print": [50.0, 84.0, 81.7, 6.0], "fin": [50.0, 98.0, 81.7, 6.0]}, "a11-papier": {"bp": [50.0, 50.0, 81.7, 5.8]}, "a12-saison": {"ok": [50.0, 67.5, 81.7, 6.0]}, "a13-ag": {"new": [44.8, 86.6, 68.2, 6.1], "item": [44.8, 77.5, 68.2, 10.3]}, "a14-ag-edit": {"fill": [50.0, 26.7, 91.3, 6.0], "ps": [50.0, 44.1, 91.3, 5.8]}, "a15-ag-parties": {"x": [50.0, 37.4, 86.4, 19.4], "up": [73.8, 54.0, 11.8, 5.4]}, "a16-ag-signer": {"sig": [27.5, 47.4, 41.4, 4.4], "add": [50.0, 76.0, 91.3, 6.0]}, "g29-repas": {"nb": [36.1, 21.9, 66.1, 7.5], "plat": [44.8, 47.0, 83.5, 14.6], "add": [23.6, 94.1, 41.0, 6.1]}, "g30-repas-envoi": {"ok": [50.0, 66.1, 81.7, 6.0], "liste": [50.0, 45.4, 81.7, 22.0]}, "g31-courses-noel": {"art": [44.8, 3.1, 83.5, 7.5]}, "g32-lier": {"lier": [44.8, 35.5, 68.2, 10.4]}, "g33-lier-code": {"dlg": [50.0, 50.0, 91.3, 46.2]}, "g35-choix": {"tot": [50.0, 21.1, 91.3, 8.1], "pp": [50.0, 33.6, 91.3, 14.6]}, "g34-compose": {"plat": [44.8, 57.8, 83.5, 20.2], "ch": [25.5, 64.1, 38.1, 6.1], "pr": [65.1, 64.1, 38.1, 6.1]}, "g36-regimes": {"rg": [44.8, 21.8, 83.5, 12.6], "fo": [38.1, 34.1, 63.2, 1.8], "send": [44.8, 96.1, 83.5, 4.0]}, "a17-am-outils": {"bg": [23.6, 59.3, 41.0, 6.1], "fill": [44.8, 66.2, 83.5, 6.1], "dbl": [66.1, 59.3, 41.0, 6.1], "imp": [23.6, 52.4, 41.0, 6.1]}, "a18-badges": {"tab": [50.0, 38.0, 81.7, 42.0], "copy": [50.0, 80.1, 81.7, 6.0], "xl": [50.0, 88.4, 81.7, 8.7]}, "a19-coffret": {"chip": [109.7, 52.0, 35.1, 3.8], "exp": [23.6, 57.8, 41.0, 6.1], "bg": [66.1, 57.8, 41.0, 6.1]}, "a22-fiche-badge": {"bg": [50.0, 50.0, 81.7, 5.8], "pd": [50.0, 12.6, 81.7, 6.0]}, "a20-ev-badges": {"bg": [23.6, 57.7, 41.0, 6.1], "fill": [66.1, 57.7, 41.0, 6.1]}, "a21-ev-liste": {"tab": [50.0, 38.0, 81.7, 42.0], "miss": [50.0, 73.8, 81.7, 4.6]}, "a23-cd-fiche": {"act": [50.0, 76.8, 81.7, 5.8]}, "a26-cd-membre": {"dlg": [50.0, 50.0, 91.3, 45.9]}, "a24-cd-new": {"tp": [50.0, 33.8, 81.7, 5.8], "x": [50.0, 71.3, 81.7, 5.8], "bd": [50.0, 62.0, 81.7, 5.8]}, "a25-cd-liste": {"card": [44.8, 61.9, 77.4, 97.1], "tog": [17.7, 50.9, 7.0, 3.2], "done": [44.8, 80.3, 68.2, 15.6]}, "a27-safe": {"card": [44.8, 42.2, 77.4, 67.9], "tr": [44.8, 34.4, 68.2, 10.3], "sn": [44.8, 44.7, 68.2, 10.4], "bk": [44.8, 55.4, 68.2, 10.9], "bkr": [44.8, 67.4, 68.2, 13.1]}, "a28-corbeille": {"row": [50.0, 30.8, 91.3, 13.9], "res": [77.2, 30.8, 31.1, 4.4]}, "a29-copies": {"row": [25.7, 30.5, 42.7, 8.5]}, "a30-copie-choix": {"b": [50.0, 50.2, 81.7, 8.7], "f": [50.0, 59.9, 81.7, 8.7]}, "a31-restaurer": {"c": [50.0, 59.4, 81.7, 5.8]}, "a32-fichier": {"p": [50.0, 53.2, 81.7, 5.8]}, "g37-paiement": {"bar": [44.8, 27.2, 83.5, 23.3], "no": [30.1, 20.7, 11.8, 2.4], "pay": [72.0, 60.8, 11.8, 5.4], "f": [22.6, 24.5, 33.3, 3.8]}, "g38-encaisser": {"m": [50.0, 39.3, 81.7, 5.8], "du": [50.0, 60.0, 81.7, 5.8]}, "g39-pas-paye": {"tab": [50.0, 39.9, 81.7, 20.9]}, "a34-fill-intro": {"dlg": [50.0, 50.0, 91.3, 53.9]}, "a33-fill-ok": {"dlg": [50.0, 50.0, 91.3, 30.8]}, "r1-croque": {"nb": [36.1, 21.9, 66.1, 7.5], "rg": [44.8, 32.5, 83.5, 12.6], "plat": [44.8, 47.0, 83.5, 14.6], "var": [44.8, 61.1, 83.5, 12.6], "send": [44.8, 87.5, 83.5, 4.0]}, "r2-croque-plat": {"ing": [50.0, 59.6, 81.7, 16.9], "pp": [50.0, 35.5, 81.7, 5.8], "fo": [50.0, 44.8, 81.7, 5.8]}, "r3-croque-envoi": {"liste": [50.0, 46.8, 81.7, 9.8], "ok": [50.0, 61.3, 81.7, 6.0]}, "r4-croque-courses": {"art": [44.8, 49.7, 83.5, 7.5]}, "l1-pour-les-nuls": {"tab": [94.9, 76.7, 10.2, 10.0], "intro": [44.8, 31.1, 77.4, 27.5]}, "l2-fiche-ag": {"fiche": [44.8, 52.5, 77.4, 7.0], "src": [52.5, 96.0, 70.0, 3.0]}, "l3-script": {"btn": [44.8, 81.3, 68.2, 6.1], "txt": [44.8, 81.3, 68.2, 6.1]}, "n1-deux-listes": {"chips": [44.8, 88.4, 83.5, 4.1]}, "n2-non-amicalistes": {"liste": [44.8, 61.6, 83.5, 4.1], "add": [44.8, 18.7, 83.5, 6.1], "sel": [70.0, 77.5, 33.0, 4.8]}, "n3-outils": {"saison": [23.6, 74.1, 41.0, 8.2], "annonce": [66.1, 74.1, 41.0, 8.2], "prix": [44.8, 82.1, 83.5, 6.1], "exp": [67.9, 52.4, 37.4, 6.1], "imp": [25.4, 52.4, 44.6, 6.1]}, "e3-jourj-encaisser": {"euro": [43.2, 67.5, 19.7, 4.2], "cpt": [74.0, 18.8, 36.0, 3.2]}, "e0-bouton-jourj": {"jj": [23.6, 57.8, 41.0, 10.3]}, "e2-selection": {"bar": [44.8, 34.5, 80.0, 6.5], "pres": [27.4, 45.1, 33.3, 6.0], "pay": [62.3, 45.1, 33.3, 6.0], "inv": [27.4, 52.0, 33.3, 6.0], "exp": [62.3, 52.0, 33.3, 6.0], "del": [44.8, 57.7, 68.0, 4.2], "tabs": [55.0, 65.2, 85.0, 4.8]}, "e6-taches-selection": {"bar": [44.8, 19.5, 80.0, 6.0], "don": [27.4, 30.0, 33.0, 6.2], "rap": [62.3, 30.0, 33.0, 6.2], "del": [44.8, 35.7, 68.0, 4.2]}, "e4-fiche-contact": {"tel": [50.0, 57.9, 81.7, 18.8]}, "e5-journal": {"clr": [44.8, 57.8, 68.2, 6.1]}};
 const FIX={'a5-evenement-docs':{docs:[44.8,33,83.5,38]},'g02-code':{code:[50,41.5,82,7]},'g06-membres':{claire:[45,19.5,83,7.5]},'g25-affiche':{aff:[50,27,52,40]},'g24-jour-j':{stats:[45,15,88,9]}};
 const C=[
  {em:'👋',t:'Bienvenue dans Amicale',p:'L’appli de ton groupe : membres, agenda, tâches, courses, événements, bulletins d’adhésion. Suis la visite : touche l’écran (ou la flèche ›) pour avancer.'},
